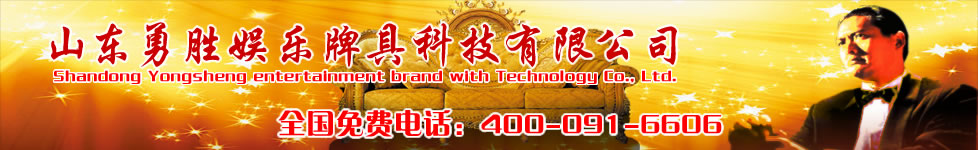
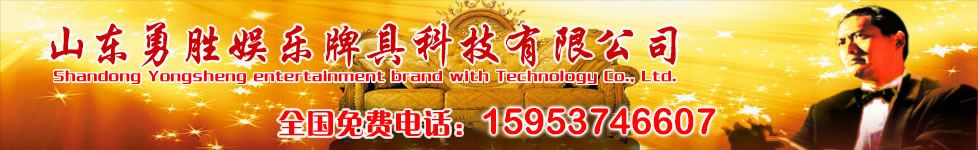
BUG

Changed region(s): [[0.4601, 0.6933, 0.7669, 0.9333]]

diff --git a/templates/sdyspj/_layout.html b/templates/sdyspj/_layout.html
@@ -81,7 +81,7 @@
             <address>
                 <strong>联系方式</strong><br/>
                 联系人：黄经理<br/>
-                <abbr title="Phone">手机:</abbr> 1595374****
+                <abbr title="Phone">手机:</abbr> 15953746607
             </address>
         </div>
         <div class="span3">

diff --git a/admin.py b/admin.py
@@ -688,7 +688,7 @@ class ListUser(BaseHandler):
         page = self.get_argument("page", 1)
         limit = getAttr('ADMIN_USER_NUM')
         users = User.get_paged(page, limit)
-        total = math.ceil(Article.count_all() / float(limit))
+        total = math.ceil(User.count_all() / float(limit))
         if page == 1:
             self.echo('admin_user_list.html', {
                 'title': "用户列表",
